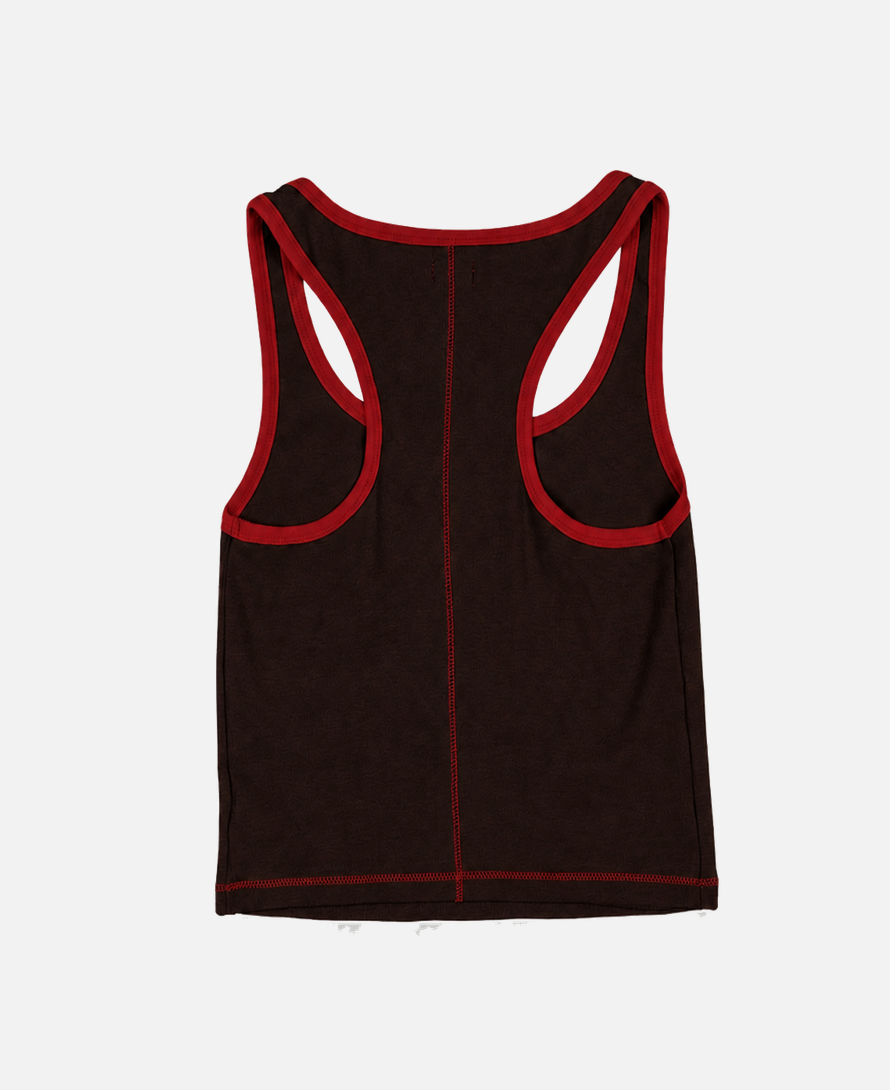
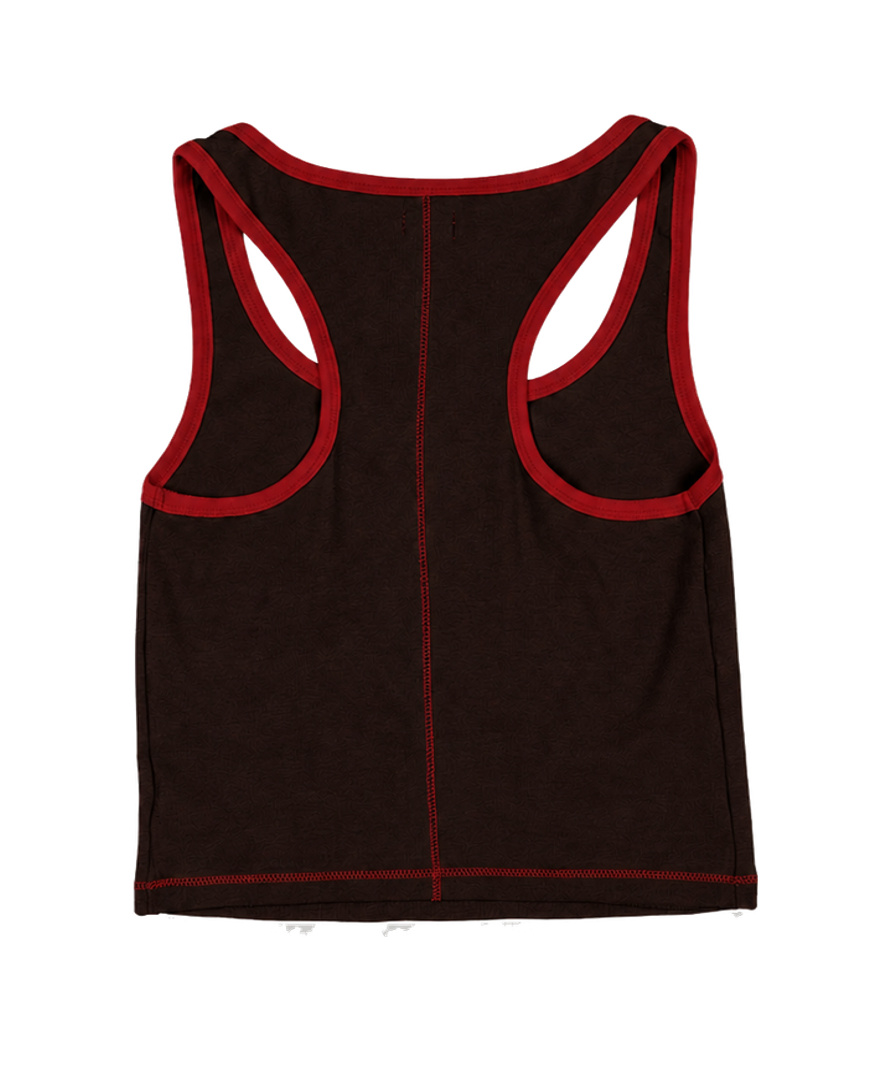
Update crop configurations and image handling for shop exports. Add 'matchFillTo' property in crops.json for better image alignment. Modify export script to ensure transparency in PNGs and implement matching fill functionality for hover images. Update README to reflect changes in image transparency 

Changed region(s): [[0.1517, 0.0936, 0.8494, 0.8734]]

diff --git a/src/components/product-card.tsx b/src/components/product-card.tsx
@@ -16,11 +16,22 @@ export function ProductCard({ product }: { product: Product }) {
         aria-label={product.title}
       >
         {hoverShot ? (
-          <div className="relative w-full">
-            <ShopPhoto src={product.image.src} alt={product.image.alt} />
-            <div className="absolute inset-0 opacity-0 group-hover/card:opacity-100" aria-hidden>
-              <ShopPhoto src={hoverShot.src} alt={hoverShot.alt} />
-            </div>
+          <div
+            className="relative w-full overflow-hidden"
+            style={{ aspectRatio: '445 / 545' }}
+          >
+            {/* eslint-disable-next-line @next/next/no-img-element */}
+            <img
+              src={product.image.src}
+              alt={product.image.alt}
+              className="absolute inset-0 h-full w-full object-contain object-center group-hover/card:hidden"
+            />
+            {/* eslint-disable-next-line @next/next/no-img-element */}
+            <img
+              src={hoverShot.src}
+              alt={hoverShot.alt}
+              className="absolute inset-0 hidden h-full w-full object-contain object-center group-hover/card:block"
+            />
           </div>
         ) : (
           <ShopPhoto src={product.image.src} alt={product.image.alt} />

diff --git a/src/seed.ts b/src/seed.ts
@@ -30,8 +30,17 @@ async function mediaId(image: Picture) {
     limit: 1,
   })
   if (existing.docs[0]) {
-    uploaded.set(image.src, existing.docs[0].id)
-    return existing.docs[0].id
+    const id = existing.docs[0].id
+    if (process.env.SEED_SYNC_PRODUCT_IMAGES === 'true') {
+      await payload.update({
+        collection: 'media',
+        id,
+        data: { alt: image.alt || filename },
+        filePath: path.resolve('public', image.src.replace(/^\//, '')),
+      })
+    }
+    uploaded.set(image.src, id)
+    return id
   }
   const created = await payload.create({
     collection: 'media',

diff --git a/design/shop/README.md b/design/shop/README.md
@@ -25,4 +25,4 @@ Cropped previews (same framing as the old in-browser crop) are generated into **
 
 `{product-slug}__{export-id}.png` — e.g. `f1-shorts-1__grid-card.png`, `f1-tank-top-black__grid-card-hover.png`, `f1-tank-top-black__pdp-front.png`.
 
-Grid exports use a **445×545** frame (×2 in file resolution). PDP exports use the aspects from `crops.json`. Background is shop gray `#f2f2f2`.
+Grid exports use a **445×545** frame (×2 in file resolution). PDP exports use the aspects from `crops.json`. PNGs are **transparent** outside the product; the shop page background (`#f2f2f2`) shows through in the browser.
